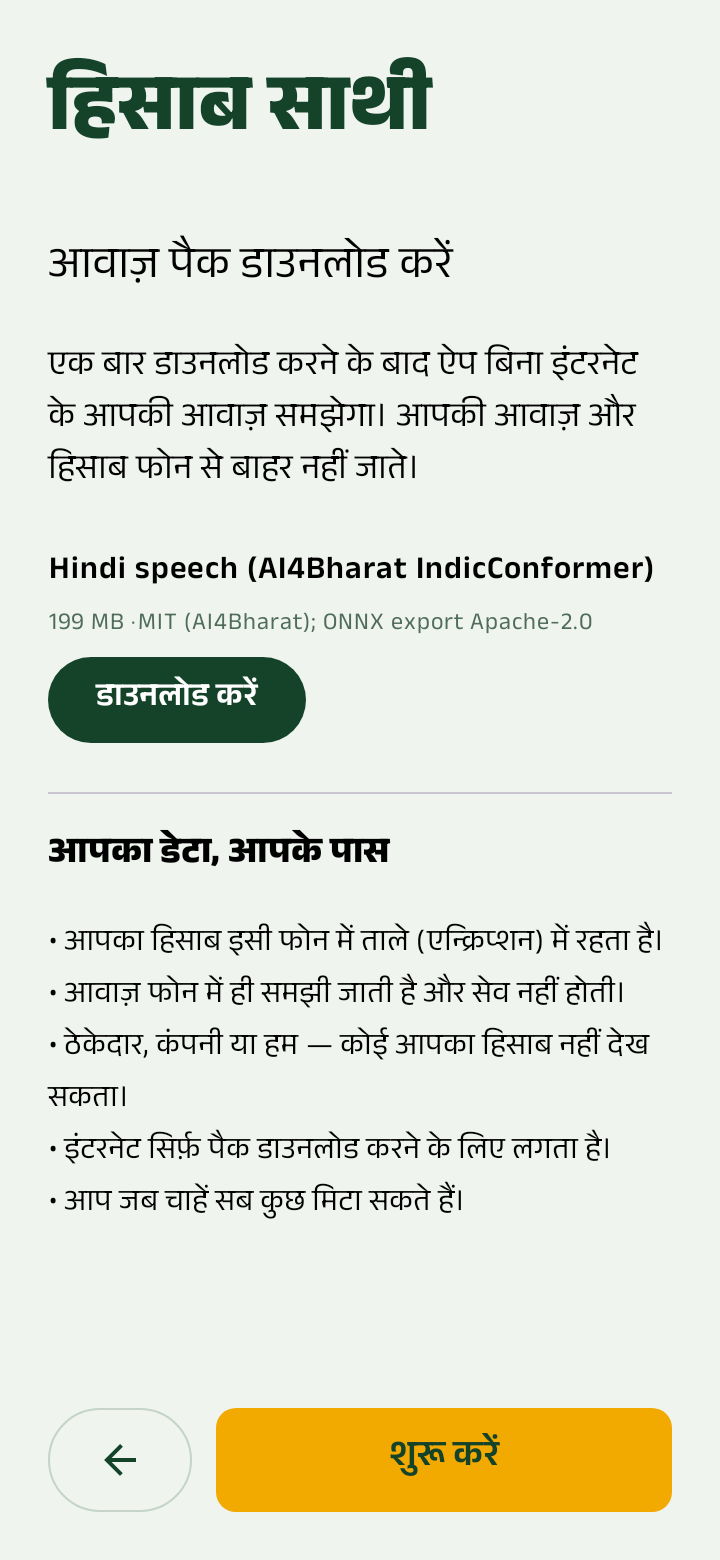
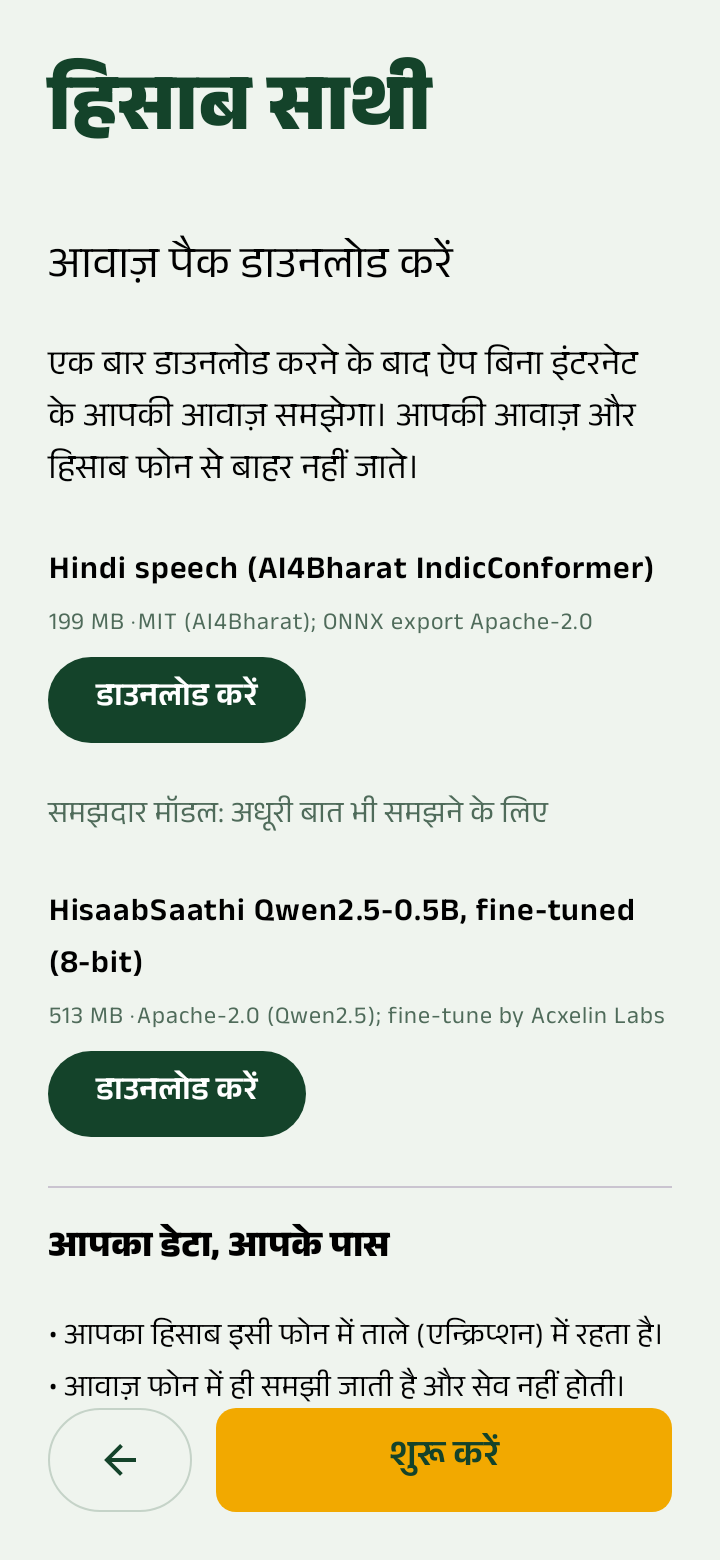
Download the fine-tuned model from Hugging Face inside the app
The model is offered during first-time setup and in Settings, from
huggingface.co/QubitMan/hisaabsaathi-model. Back to a single app build.

Changed region(s): [[0.0611, 0.4923, 0.9167, 0.8923], [0.7333, 0.7077, 0.8556, 0.7385]]

diff --git a/android/app/src/main/kotlin/com/acxelin/hisaabsaathi/models/Packs.kt b/android/app/src/main/kotlin/com/acxelin/hisaabsaathi/models/Packs.kt
@@ -160,36 +160,6 @@ class PackManager(context: Context, private val scope: CoroutineScope) {
         }
     }
 
-    /** Unpacks a model that ships inside the APK ("full" build) into app storage. */
-    fun installBundled(context: Context, pack: Pack, assetName: String) {
-        if (isReady(pack) || jobs[pack.id]?.isActive == true) return
-        val f = pack.files.single()
-        set(pack, PackState.Downloading(0f))
-        jobs[pack.id] = scope.launch(Dispatchers.IO) {
-            val target = file(f); val part = File(target.path + ".part")
-            try {
-                target.parentFile?.mkdirs()
-                var copied = 0L
-                context.assets.open(assetName).use { input ->
-                    part.outputStream().use { out ->
-                        val buf = ByteArray(1 shl 16)
-                        while (true) {
-                            val n = input.read(buf)
-                            if (n < 0) break
-                            out.write(buf, 0, n); copied += n
-                            if (copied % (8L shl 20) < n) set(pack, PackState.Downloading(copied.toFloat() / f.bytes))
-                        }
-                    }
-                }
-                if (copied != f.bytes || !part.renameTo(target)) error("could not unpack model")
-                set(pack, PackState.Ready)
-            } catch (e: Exception) {
-                part.delete()
-                set(pack, PackState.Failed(e.message ?: e.javaClass.simpleName))
-            }
-        }
-    }
-
     fun delete(pack: Pack) {
         jobs.remove(pack.id)?.cancel()
         // Shared files (VAD, tokens) stay if another installed pack still needs them.

diff --git a/android/app/src/main/kotlin/com/acxelin/hisaabsaathi/HisaabApp.kt b/android/app/src/main/kotlin/com/acxelin/hisaabsaathi/HisaabApp.kt
@@ -9,7 +9,6 @@ import com.acxelin.hisaabsaathi.data.LedgerDb
 import com.acxelin.hisaabsaathi.data.LedgerRepository
 import com.acxelin.hisaabsaathi.data.SettingsStore
 import com.acxelin.hisaabsaathi.export.Exporter
-import com.acxelin.hisaabsaathi.models.Catalog
 import com.acxelin.hisaabsaathi.models.PackManager
 import com.acxelin.hisaabsaathi.speech.OnDeviceStt
 import com.acxelin.hisaabsaathi.speech.Speaker
@@ -34,11 +33,6 @@ open class HisaabApp : Application() {
     val slm by lazy { SlmEngine(this, packs) }
     val scanner by lazy { Scanner(this) }
     val exporter by lazy { Exporter(this) }
-    override fun onCreate() {
-        super.onCreate()
-        if (BuildConfig.BUNDLED_MODEL) packs.installBundled(this, Catalog.slmHisaab, "hisaabsaathi-qwen05-ft-q8.task")
-    }
-
     val wagePack: WagePack by lazy {
         runCatching { Wages.parse(assets.open("wage_pack_in.json").bufferedReader().use { it.readText() }) }
             .getOrDefault(WagePack(0, ""))

diff --git a/android/app/src/main/kotlin/com/acxelin/hisaabsaathi/ui/SetupScreens.kt b/android/app/src/main/kotlin/com/acxelin/hisaabsaathi/ui/SetupScreens.kt
@@ -133,6 +133,9 @@ fun Onboarding(vm: AppViewModel, settings: Settings, s: Strings) {
                     Text(s.voicePackTitle, fontSize = 22.sp)
                     Text(s.voicePackBody, fontSize = 17.sp)
                     PackRow(vm, vm.sttPack(), s, allowDelete = false)
+                    // Optional: the app works without it, using its built-in rules.
+                    Text(s.smartPack, fontSize = 15.sp, color = InkSoft)
+                    PackRow(vm, vm.slmPack, s, allowDelete = false, canDownload = Catalog.canDownloadSlm)
                     HorizontalDivider()
                     Text(s.privacyTitle, fontSize = 18.sp, fontWeight = FontWeight.Bold)
                     Text(s.privacyBody, fontSize = 15.sp)

diff --git a/android/README.md b/android/README.md
@@ -73,11 +73,10 @@ speech.
 - The app asks it only when the rules are unsure or found nothing, and keeps its answer only
   if it labels exactly the numbers that were said, so it cannot override a confident rule
   result or add an amount.
-- Two builds: **full** (`./gradlew :app:assembleFullDebug`, ~600 MB) carries the model and
-  unpacks it on first launch; **lite** (`assembleLiteDebug`, ~90 MB) offers "Add model file
-  from phone" in Settings, and a download button once `HISAAB_MODEL_URL` in
-  `app/build.gradle.kts` points at a hosted copy. The model file is not kept in git; put it
-  in `app/src/full/assets/` before building full.
+- Hosted at https://huggingface.co/QubitMan/hisaabsaathi-model (Apache-2.0). The app
+  offers it during first-time setup and under Settings → Offline packs; downloads resume
+  if interrupted, and a file of the wrong size is never loaded. "Add model file from phone"
+  in Settings works without internet. The link is `HISAAB_MODEL_URL` in `app/build.gradle.kts`.
 - Not yet checked on a phone: MediaPipe loading this bundle, speed and memory on 3–4 GB
   devices.
 
@@ -93,11 +92,11 @@ family covering all six scripts (`app/src/main/res/font`).
 ```
 
 ```bash
-./gradlew :app:testLiteDebugUnitTest     # drives the real screens end to end; screenshots in app/build/screens
+./gradlew :app:testDebugUnitTest     # drives the real screens end to end; screenshots in app/build/screens
 ```
 
 ```bash
-./gradlew :app:assembleLiteDebug     # APKs in app/build/outputs/apk/lite/debug (use arm64-v8a for most phones)
+./gradlew :app:assembleDebug         # APKs in app/build/outputs/apk/debug (use arm64-v8a for most phones)
 ```
 
 Needs JDK 17+ and the Android SDK (platform 35). Set `sdk.dir` in `local.properties`.
